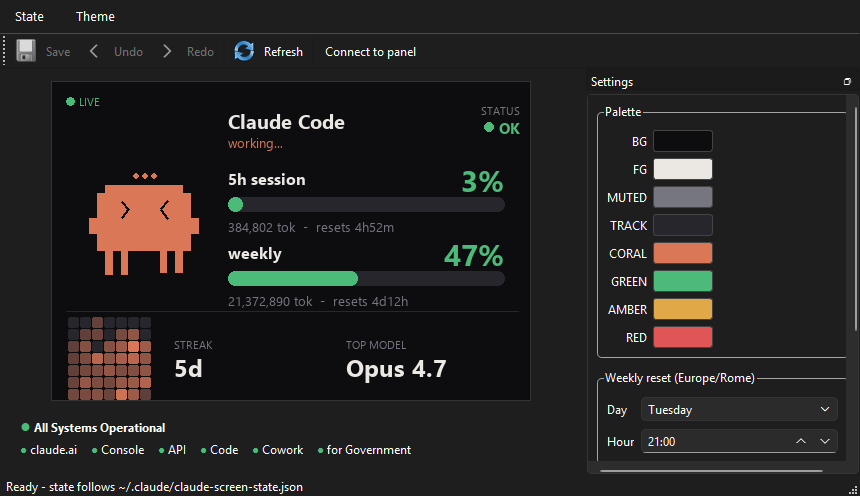
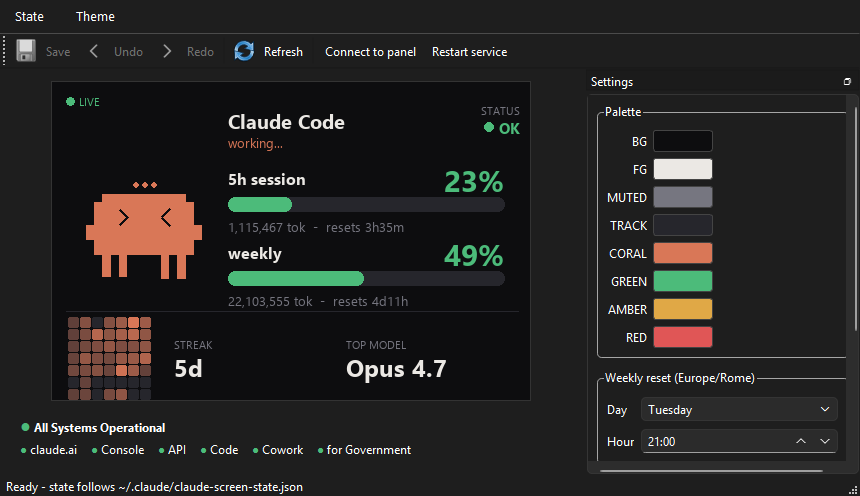
Document the idle stat screens + new behaviour in the README
- Add screenshots of the two idle stat pages (docs/screen-activity.png, docs/screen-models.png)
  and refresh the app hero shot to show the Refresh / Restart-service buttons + LIVE indicator.
- Document the LIVE/CACHED/EST data-source dot, the idle stat-screen cycling, transcript-based
  working detection, gentle/cached/deduped polling, and the Refresh + Restart-service buttons.
- Add tools/render_readme_shots.py to regenerate the stat-page images.

diff --git a/tools/render_readme_shots.py b/tools/render_readme_shots.py
@@ -1,0 +1,13 @@
+"""Render the idle stat-screen images for the README (real stats, mock status chip)."""
+import sys
+from pathlib import Path
+
+sys.path.insert(0, str(Path(__file__).resolve().parents[1]))
+import claude_screen as cs
+
+cs._STATS = cs.compute_stats()
+cs._CLAUDE_STATUS = {"indicator": "none", "description": "All Systems Operational"}
+
+cs.render_stats_overview(0.4, cs._STATS).save("docs/screen-activity.png")
+cs.render_stats_models(0.4, cs._STATS).save("docs/screen-models.png")
+print("wrote docs/screen-activity.png and docs/screen-models.png")

diff --git a/README.md b/README.md
@@ -12,16 +12,29 @@ It answers the two questions you keep asking mid-session: *how much of my 5-hour
 
 ## What it shows
 
-- **5h session & weekly gauges** — exact utilization percentages and reset countdowns, pulled from `https://api.anthropic.com/api/oauth/usage` (the data behind `/usage`), polled ~once a minute. If that's ever unreachable it falls back to estimating from local logs and labels the value `(est)`.
-- **The buddy** — a clay-colored mascot that is **working** (active), **idle** (calm), or **attention** (flashing alert when Claude needs your input). Driven by Claude Code lifecycle hooks.
+- **5h session & weekly gauges** — exact utilization percentages and reset countdowns, pulled from `https://api.anthropic.com/api/oauth/usage` (the data behind `/usage`). A small **LIVE / CACHED / EST** dot in the top-left tells you whether the numbers are fresh from the endpoint, the last cached reading, or a local estimate.
+- **The buddy** — a clay-colored mascot that is **working**, **idle**, or **attention** (a flashing **"NEEDS YOU"** alert when Claude asks you a question). "Working" is detected from live transcript activity, so it stays accurate even mid-task — no reliance on hooks firing.
+- **Idle stat screens** — when Claude is idle, the screen cycles through dashboard-style stats (see below) and snaps back to the gauges the moment work resumes.
 - **Confetti** 🎉 when a limit resets.
 - **status.claude.com strip** — overall health + per-component dots (claude.ai, Console, API, Code, …), live from the Statuspage API.
-- **Session stats** — current streak, favorite model, and a usage heatmap, parsed from your local `~/.claude/projects/**/*.jsonl`.
+
+## When Claude is idle
+
+The panel cycles through two stat pages every 30 seconds, parsed from your local `~/.claude/projects/**/*.jsonl`:
+
+| Activity | Models |
+|:---:|:---:|
+| ![Activity stats page](docs/screen-activity.png) | ![Models stats page](docs/screen-models.png) |
+
+**Activity** shows sessions, messages, total tokens, active days, current/longest streak, peak hour, favorite model, and a weekday-aligned activity heatmap. **Models** breaks down token usage per model. The moment Claude starts working again, the screen returns to the live usage gauges.
 
 ## Two ways to run it
 
 ### 1. Desktop app (`claude_app.py`)
-A PySide6 window with a live preview, a **State** override menu, a **Theme** editor (palette, weekly-reset anchor, token-budget calibration, brightness) with Save / Undo / Redo, the status strip, and an optional **Connect to panel** toggle to drive the physical screen.
+A PySide6 window with a live preview, a **State** override menu, a **Theme** editor (palette, weekly-reset anchor, token-budget calibration, brightness) with Save / Undo / Redo, and the status strip. The toolbar also has:
+- **Connect to panel** — drive the physical screen from the app (takes the panel over from the background daemon).
+- **Refresh** (F5) — force an immediate live usage fetch.
+- **Restart service** — cleanly restart the background daemon (the `ClaudeStatusBuddy` task) so it picks up updates, without wedging the panel.
 
 ```bat
 start_app.bat            REM or:  pyw -3.13 claude_app.py
@@ -67,6 +80,8 @@ python install_hooks.py --remove        REM to undo
 
 `set_state.py` is the lightweight hook entry point — it just writes `~/.claude/claude-screen-state.json`, which the daemon and the app both read. The `attention` alert **persists until you respond** (it doesn't auto-decay). Claude Code snapshots hooks at startup, so restart your session (or run `/hooks`) after installing.
 
+The hooks mainly drive the **attention** alert; **working / idle** is detected independently from transcript activity, so the buddy stays correct even if the hooks are stale or haven't been reloaded yet.
+
 ### Auto-start at login (optional, Windows)
 ```powershell
 powershell -ExecutionPolicy Bypass -File install_autostart.ps1     # registers a "ClaudeStatusBuddy" scheduled task
@@ -76,6 +91,8 @@ powershell -ExecutionPolicy Bypass -File uninstall_autostart.ps1
 ## How usage is measured
 
 The gauges use Claude Code's own OAuth token (from `~/.claude/.credentials.json`) to call the usage endpoint, refreshing the token when it expires (and writing the rotated token back, so the CLI stays logged in). This is why the percentages match `/usage` exactly instead of drifting like a token-count estimate would.
+
+Polling is deliberately gentle (every 5 min, with cross-process dedupe via a shared cache and back-off on HTTP 429) since the endpoint rate-limits. Each good reading is cached to disk, so a restart or a brief outage shows the last live value (the **CACHED** dot) rather than dropping to a far-off estimate — and the **Refresh** button forces an immediate fetch when you want the exact number now.
 
 Diagnostic — print the raw endpoint response any time a gauge looks off:
 ```bat
